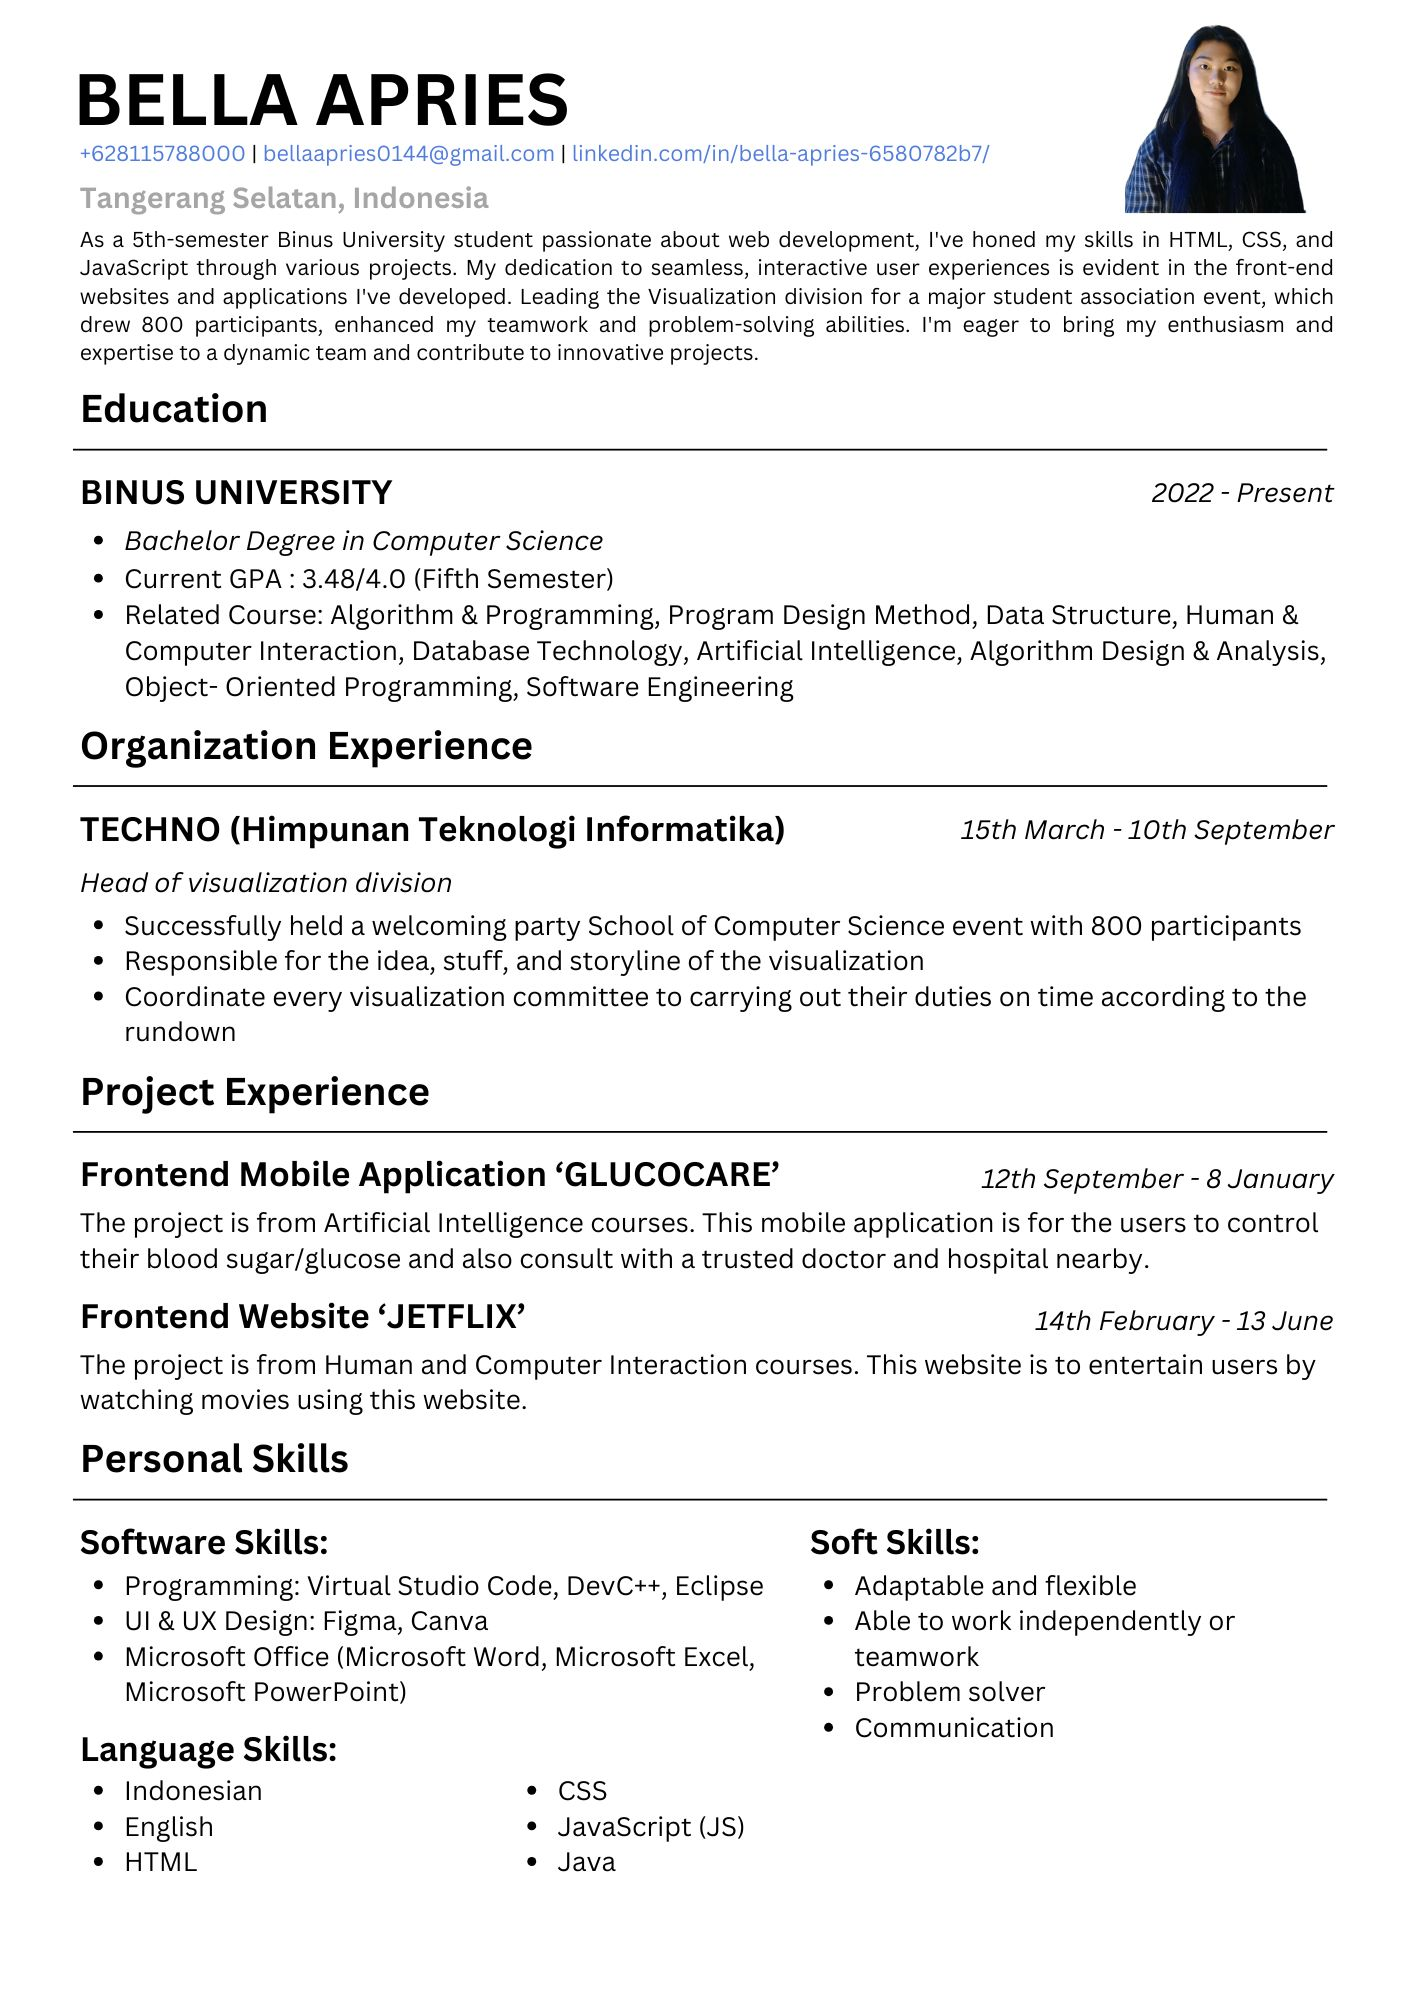
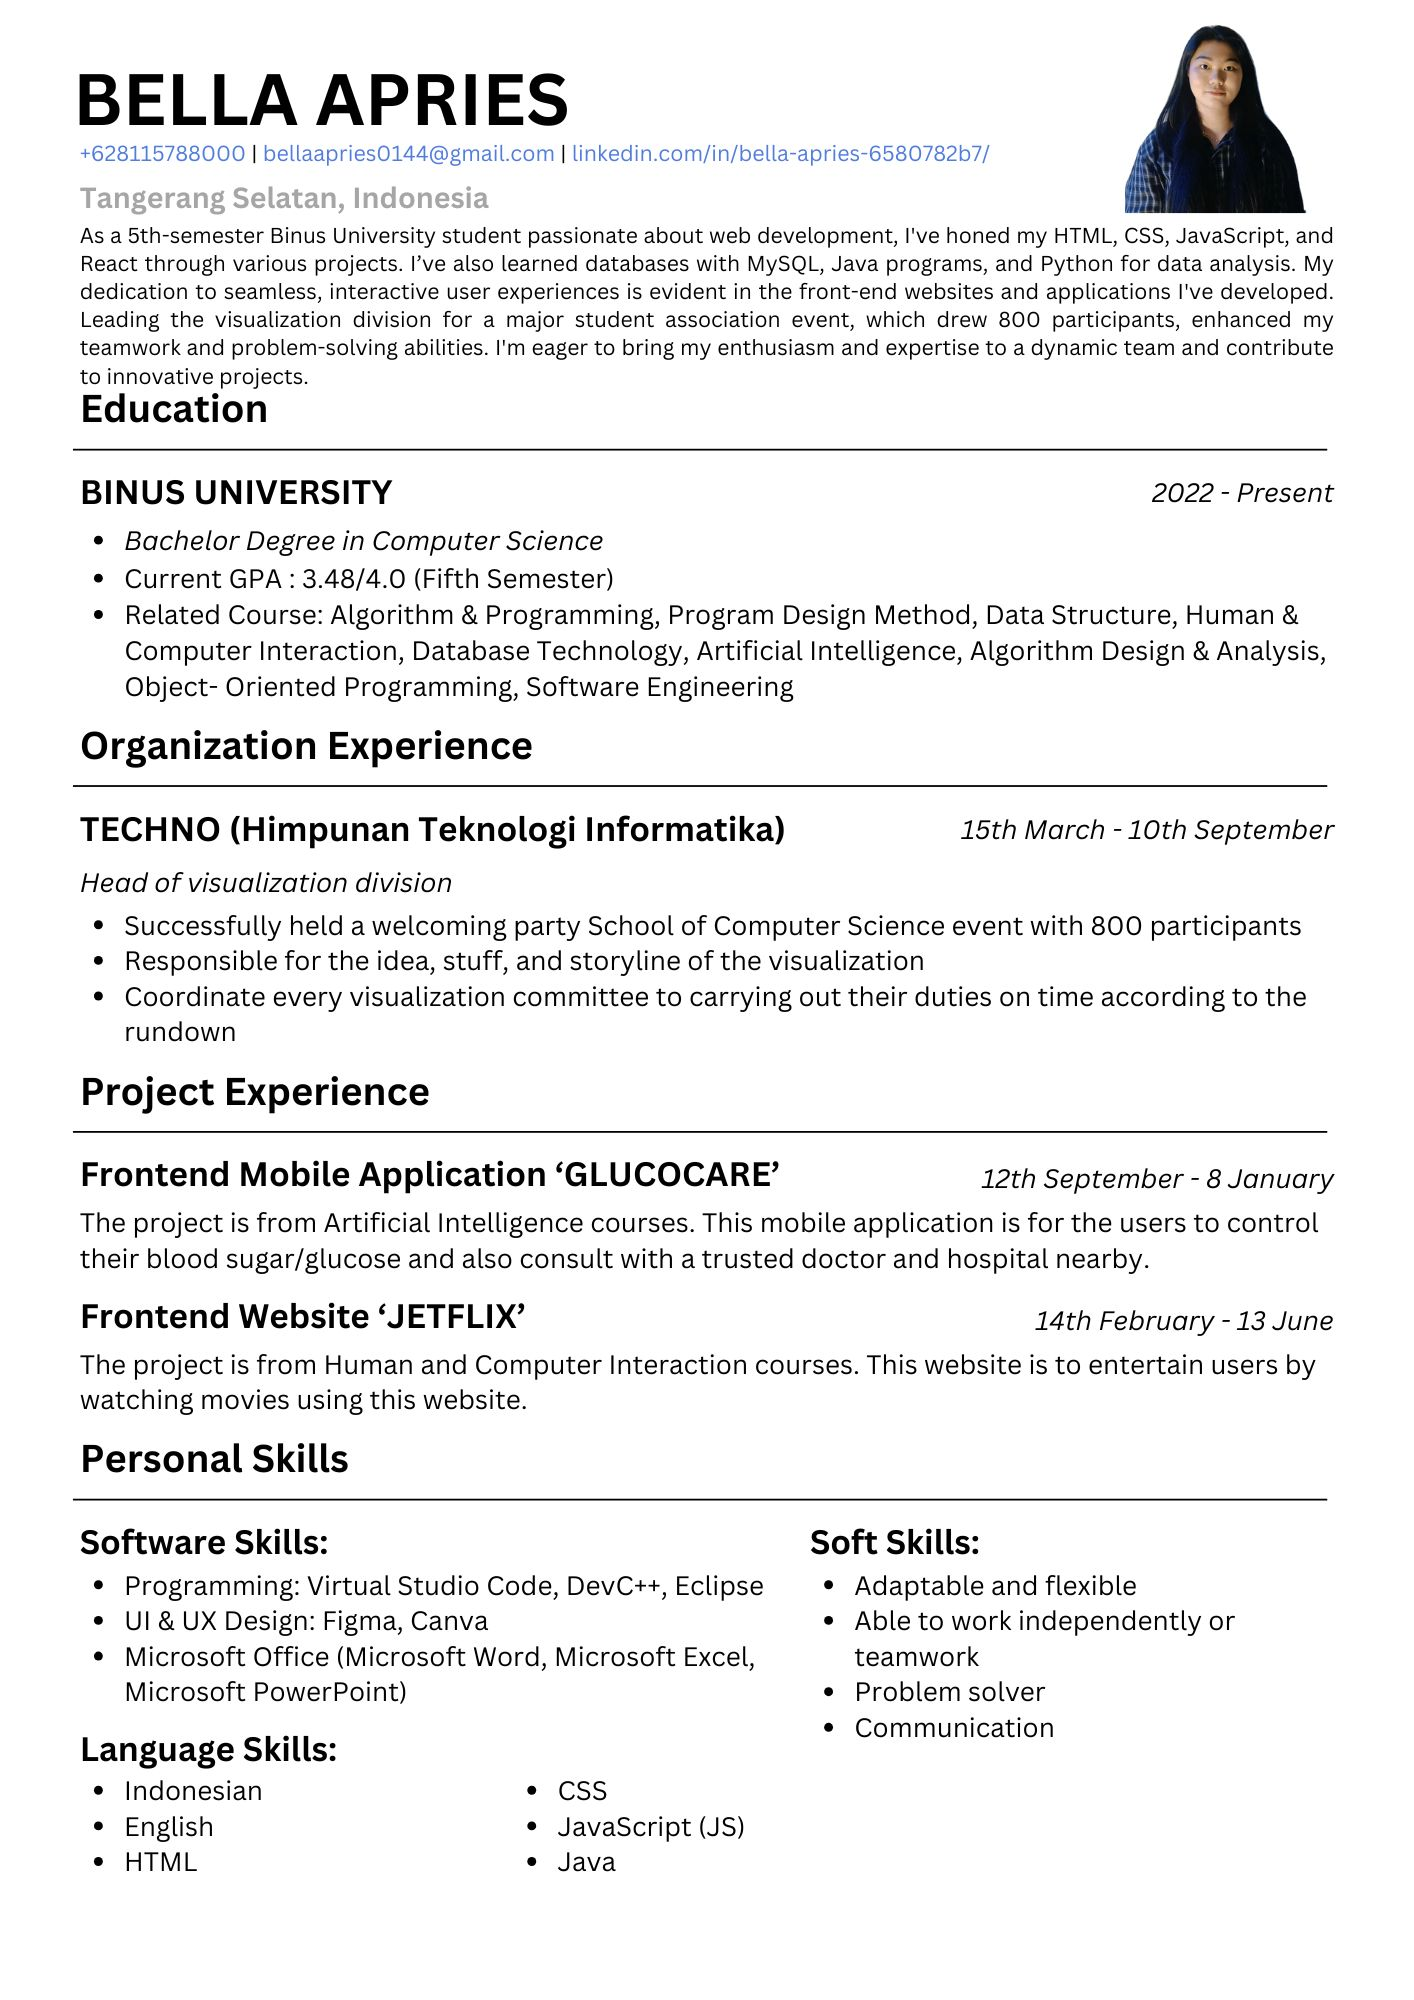
Update Projects

Changed region(s): [[0.0622, 0.093, 0.9335, 0.217]]

diff --git a/index.html b/index.html
@@ -41,12 +41,13 @@
                             <div class="caption">
                                 <h1>Hi, It's Me</h1>
                                 <h4>BELLA APRIES</h4>
-                                <h4>Frontend Developer</h4>
+                                <h4>Frontend Developer / Data Analysis</h4>
                             </div>
                             <div class="about-me">
-                                <p>As a 5th-semester Binus University student passionate about web development, I've honed my skills in HTML, CSS, and JavaScript through various projects. 
+                                <p>As a 5th-semester Binus University student passionate about web development, I've honed my HTML, CSS, JavaScript, and React through various projects. 
+                                    I’ve also learned databases with MySQL, Java programs, and Python for data analysis. 
                                     My dedication to seamless, interactive user experiences is evident in the front-end websites and applications I've developed. 
-                                    Leading the Visualization division for a major student association event, which drew 800 participants, enhanced my teamwork and problem-solving abilities. 
+                                    Leading the visualization division for a major student association event, which drew 800 participants, enhanced my teamwork and problem-solving abilities. 
                                     I'm eager to bring my enthusiasm and expertise to a dynamic team and contribute to innovative projects.</p>
                             </div>
                         </figcaption>
